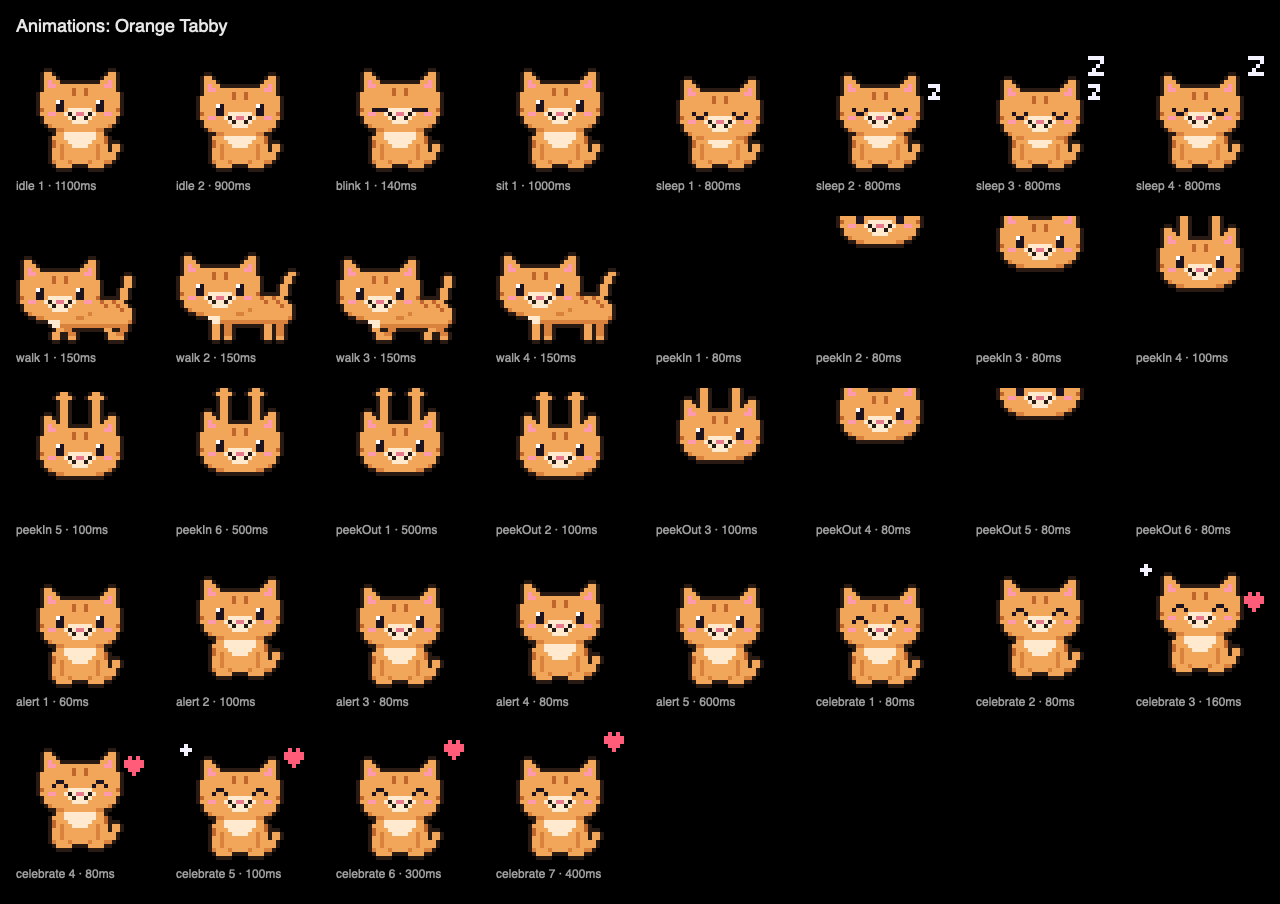
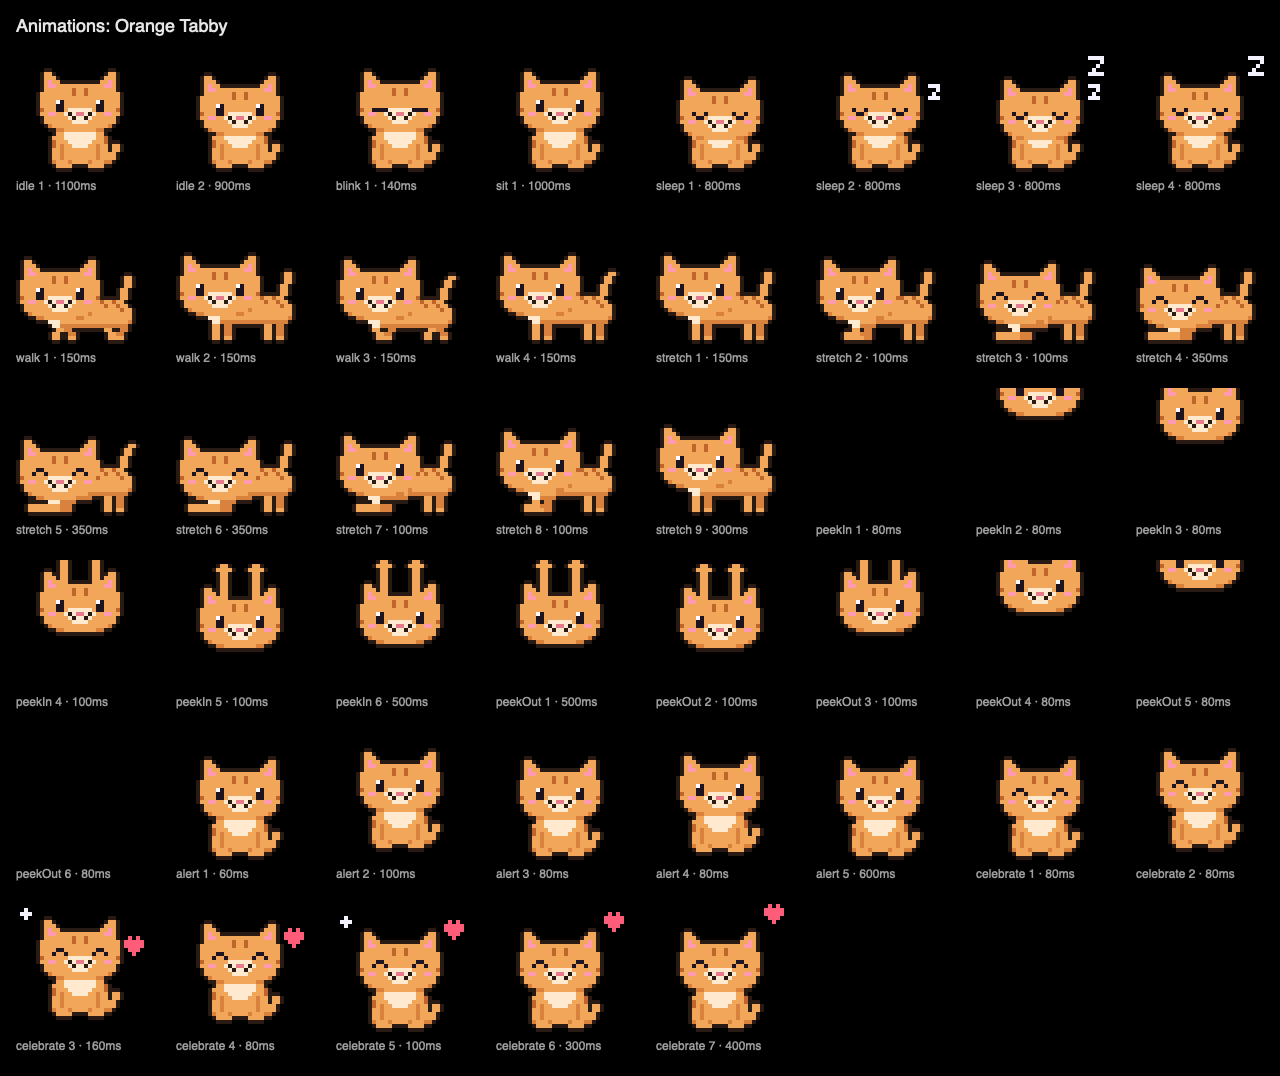
feat(pets): Added the stretch animation (`PetAnimation.stretch`), a side-on play bow for all 14 breeds and every costume, built by bending the walking body. It includes a gallery sheet, a new behavior test (251 green, zero warnings) and docs.

diff --git a/Sources/NotchDeckCore/Pets/PetComposer.swift b/Sources/NotchDeckCore/Pets/PetComposer.swift
@@ -39,6 +39,10 @@ public enum PetComposer {
         case hanging
         /// Side-on torso mid-stride; `step` indexes `WalkArt.cycle`.
         case walking(step: Int)
+        /// The walking body bowing into a stretch: the chest sinks `depth`
+        /// pixels while the front paws slide forward and the rump stays up.
+        /// `wag` picks the tail position.
+        case stretching(depth: Int, wag: Int)
     }
 
     static func compose(
@@ -80,19 +84,37 @@ public enum PetComposer {
             for (x, lean, far) in legs {
                 canvas.stamp(WalkArt.leg(height: walk.legHeight, lean: lean, far: far), x: x, y: legY, pattern: pattern)
             }
-            canvas.stamp(walk.torso, x: walk.torsoX, y: walk.torsoY + sink, pattern: pattern)
-            if breed.hasTail {
-                // The tail sways once per half cycle, not every step, so it doesn't flicker.
-                let tail = walk.tails[(index / 2) % walk.tails.count]
-                canvas.stamp(tail, x: walk.tailX, y: walk.torsoY + sink - tail.height, pattern: pattern)
-            }
-            // The torso is behind the head, so torso costumes go on now.
-            for item in bodyItems(outfit: outfit, accessories: accessories) {
-                canvas.stamp(walk.pick(item), x: walk.torsoX, y: walk.torsoY + sink)
-            }
+            // The tail sways once per half cycle, not every step, so it doesn't flicker.
+            canvas.lay(walkingTorso(breed, walk, outfit: outfit, accessories: accessories, wag: index / 2)) { _ in sink }
             bodyItem = { _ in nil }
             headX = walk.headX
             headY = walk.chinRow + 1 - layout.head.height + sink + pose.headDrop
+        case .stretching(let bow, let wag):
+            let walk = WalkLayout(layout.family)
+            // Short legs bow less, so the chin never sinks onto the paws.
+            let depth = min(bow, walk.legHeight - 1)
+            let legY = walk.torsoY + walk.torso.height
+            // Back legs stand straight; front legs fold down and reach ahead,
+            // ending on the same baseline.
+            let height = max(2, walk.legHeight - depth)
+            let reach = depth * 2
+            for (x, far) in [(walk.backHip + 3, true), (walk.backHip, false)] {
+                canvas.stamp(WalkArt.leg(height: walk.legHeight, lean: .under, far: far), x: x, y: legY, pattern: pattern)
+            }
+            // Bow the torso: columns toward the chest sink, the rump stays put.
+            let torso = walkingTorso(breed, walk, outfit: outfit, accessories: accessories, wag: wag)
+            let pivot = walk.torsoX + walk.torso.width * 2 / 3
+            canvas.lay(torso) { x in
+                x >= pivot ? 0 : min(depth, Int((Double(depth * (pivot - x)) / Double(pivot - walk.torsoX)).rounded()))
+            }
+            // The forearms lie in front of the lowered chest.
+            for (x, far) in [(walk.frontHip + 3, true), (walk.frontHip, false)] {
+                canvas.stamp(WalkArt.reachingLeg(height: height, reach: reach, far: far),
+                             x: x - reach, y: legY + walk.legHeight - height, pattern: pattern)
+            }
+            bodyItem = { _ in nil }
+            headX = walk.headX
+            headY = walk.chinRow + 1 - layout.head.height + depth + pose.headDrop
         }
         canvas.stamp(layout.head, x: headX, y: headY, pattern: pattern)
         let face = EffectArt.face(layout.face, eyeRow: layout.eyeRow - layout.faceRow, eyes: pose.eyes)
@@ -115,6 +137,24 @@ public enum PetComposer {
         }
         let anchor = PetPoint(x: headX + layout.head.width - 1, y: headY + layout.skullTop - pose.lift)
         return Composed(canvas: canvas.outlined().shifted(x: 0, y: -pose.lift), headTopRight: anchor)
+    }
+
+    /// The walking torso with its tail and torso costumes, on its own frame
+    /// canvas so a stance can bend it before laying it over the legs. The
+    /// torso is behind the head, so torso costumes go on here, before it.
+    private static func walkingTorso(
+        _ breed: PetBreed, _ walk: WalkLayout, outfit: PetOutfit, accessories: [PetAccessory], wag: Int
+    ) -> PetCanvas {
+        var canvas = PetCanvas(width: frameSize, height: frameSize)
+        canvas.stamp(walk.torso, x: walk.torsoX, y: walk.torsoY, pattern: breed.pattern)
+        if breed.hasTail {
+            let tail = walk.tails[wag % walk.tails.count]
+            canvas.stamp(tail, x: walk.tailX, y: walk.torsoY - tail.height, pattern: breed.pattern)
+        }
+        for item in bodyItems(outfit: outfit, accessories: accessories) {
+            canvas.stamp(walk.pick(item), x: walk.torsoX, y: walk.torsoY)
+        }
+        return canvas
     }
 
     /// The outfit and neck items worn, in drawing order.
@@ -246,6 +286,17 @@ public enum PetComposer {
 
         func pick(_ item: CostumeArt.BodyItem) -> SpriteGrid {
             family == .longDog ? item.walkLong : item.walk
+        }
+    }
+}
+
+extension PetCanvas {
+    /// Paints the opaque pixels of `layer` over this canvas, moving each
+    /// column down by `drop(x)` pixels: a plain offset, or a bend.
+    fileprivate mutating func lay(_ layer: PetCanvas, drop: (Int) -> Int) {
+        for x in 0..<layer.width {
+            let dy = drop(x)
+            for y in 0..<layer.height { if let role = layer[x, y] { self[x, y + dy] = role } }
         }
     }
 }

diff --git a/Tests/NotchDeckCoreTests/PetsAnimationTests.swift b/Tests/NotchDeckCoreTests/PetsAnimationTests.swift
@@ -168,6 +168,37 @@ final class PetAnimationTests: XCTestCase {
         }
     }
 
+    func testStretchBowsDownAndRisesBackToStanding() throws {
+        for breed in PetBreed.allCases {
+            let clip = PetComposer.clip(.stretch, for: breed, outfit: .scrubs, accessories: [.stethoscope, .beanie])
+            XCTAssertFalse(clip.loops)
+            let canvases = clip.frames.map(\.canvas)
+            // It starts and ends on the walk's standing (passing) step, so it
+            // chains with walking without a jump.
+            let standing = PetComposer.clip(.walk, for: breed, outfit: .scrubs, accessories: [.stethoscope, .beanie])
+                .frames[1].canvas
+            XCTAssertEqual(canvases.first, standing, "\(breed)")
+            XCTAssertEqual(canvases.last, standing, "\(breed)")
+
+            let last = PetComposer.frameSize - 1
+            for canvas in canvases {
+                let bounds = try XCTUnwrap(canvas.opaqueBounds)
+                XCTAssertEqual(bounds.maxY, baseline, "paws stay on the baseline: \(breed)")
+                let edges = (0...last).flatMap { [canvas[0, $0], canvas[last, $0], canvas[$0, 0]] }
+                XCTAssertTrue(edges.allSatisfy { $0 == nil || $0 == .outline }, "nothing clipped: \(breed)")
+                XCTAssertTrue(canvas.pixels.contains(.costumeBase), "scrubs follow the bow: \(breed)")
+            }
+
+            // In the bow the head (topmost pixel, under the beanie) sinks while
+            // the rump stays up and the eyes squint happily.
+            let bow = try XCTUnwrap(canvases.max { $0.opaqueTop(inColumns: 0..<12) < $1.opaqueTop(inColumns: 0..<12) })
+            XCTAssertGreaterThan(bow.opaqueTop(inColumns: 0..<12), standing.opaqueTop(inColumns: 0..<12) + 1, "\(breed)")
+            XCTAssertEqual(bow.opaqueTop(inColumns: 24..<30), standing.opaqueTop(inColumns: 24..<30),
+                           "the rump stays up: \(breed)")
+            XCTAssertLessThan(eyePixels(bow), eyePixels(standing), "\(breed)")
+        }
+    }
+
     func testCanvasShiftAndFlip() {
         var canvas = PetCanvas(width: 3, height: 3)
         canvas[0, 0] = .eye
@@ -177,5 +208,12 @@ final class PetAnimationTests: XCTestCase {
         XCTAssertNil(canvas.shifted(x: 0, y: -1).opaqueBounds, "moved off the canvas is clipped")
         XCTAssertEqual(canvas.flippedVertically()[0, 2], .eye)
         XCTAssertEqual(canvas.flippedVertically().flippedVertically(), canvas)
+    }
+}
+
+private extension PetCanvas {
+    /// The highest opaque row within `columns`, or the canvas height if empty.
+    func opaqueTop(inColumns columns: Range<Int>) -> Int {
+        (0..<height).first { y in columns.contains { self[$0, y] != nil } } ?? height
     }
 }

diff --git a/Sources/NotchDeckCore/Pets/PetAnimation.swift b/Sources/NotchDeckCore/Pets/PetAnimation.swift
@@ -51,6 +51,9 @@ public enum PetAnimation: String, CaseIterable, Codable, Sendable {
     /// Trotting toward the left, side-on with the face to the viewer. Loops;
     /// mirror the frames to walk right.
     case walk
+    /// A play bow: chest down, paws forward, rump and tail up, then back to
+    /// standing. Side-on like `walk`, facing left.
+    case stretch
     /// Hanging head first out of the notch's top edge.
     case peekIn
     /// The reverse of `peekIn`: pulling back up into the notch.
@@ -64,7 +67,7 @@ public enum PetAnimation: String, CaseIterable, Codable, Sendable {
     public var loops: Bool {
         switch self {
         case .idle, .sit, .sleep, .walk: true
-        case .blink, .peekIn, .peekOut, .alert, .celebrate: false
+        case .blink, .stretch, .peekIn, .peekOut, .alert, .celebrate: false
         }
     }
 }
@@ -204,6 +207,19 @@ extension PetComposer {
                 let composed = compose(breed, pose: PetPose(), outfit: outfit, accessories: accessories,
                                        stance: .walking(step: step))
                 return PetFrame(canvas: composed.canvas, duration: 0.15)
+            }
+
+        case .stretch:
+            // Ease down into the bow, hold it with a tail wag and happy
+            // eyes, then rise back up.
+            let steps: [(Int, Int, PetPose.Eyes, TimeInterval)] = [
+                (0, 0, .open, 0.15), (1, 0, .open, 0.1), (2, 0, .happy, 0.1), (3, 0, .happy, 0.35),
+                (3, 1, .happy, 0.35), (3, 0, .happy, 0.35), (2, 0, .open, 0.1), (1, 0, .open, 0.1), (0, 0, .open, 0.3),
+            ]
+            frames = steps.map { depth, wag, eyes, duration in
+                let composed = compose(breed, pose: PetPose(eyes: eyes), outfit: outfit, accessories: accessories,
+                                       stance: .stretching(depth: depth, wag: wag))
+                return PetFrame(canvas: composed.canvas, duration: duration)
             }
 
         case .alert:

diff --git a/Sources/NotchDeckCore/Pets/Art/WalkArt.swift b/Sources/NotchDeckCore/Pets/Art/WalkArt.swift
@@ -118,6 +118,26 @@ enum WalkArt {
         return grid
     }
 
+    /// A front leg reaching forward along the ground for the stretch: the
+    /// hip column drops `height` rows and the forearm lies flat for `reach`
+    /// more pixels toward the left, paw first. With no reach it is a plain
+    /// standing leg.
+    static func reachingLeg(height: Int, reach: Int, far: Bool) -> SpriteGrid {
+        var grid = SpriteGrid(width: reach + 2, height: height)
+        let fur: SpriteCell = far ? .role(.furShade) : .role(.furBase)
+        for y in 0..<height {
+            // The bottom two rows are the forearm resting on the ground.
+            let lying = reach > 0 && y >= height - 2
+            for x in (lying ? 0 : reach)..<(reach + 2) {
+                grid[x, y] = fur
+            }
+        }
+        // The paw is the leading tip of the bottom row.
+        grid[0, height - 1] = .zone(.paws)
+        grid[1, height - 1] = .zone(.paws)
+        return grid
+    }
+
     /// One step of the gait: the lean of the near front, far front, near
     /// back, and far back leg. Diagonal pairs move together, like a real trot.
     struct Step {

diff --git a/Sources/PetGallery/main.swift b/Sources/PetGallery/main.swift
@@ -157,3 +157,17 @@ for (breed, look) in [(PetBreed.orangeTabby, looks[looks.count - 4]), (.goldenRe
 }
 try writeSheet(walkCells, columns: 8, title: "Walk cycle (150ms per step)",
                to: outputDirectory.appendingPathComponent("walk.png"))
+
+// Stretch check: every breed through the whole bow, then two dressed looks.
+var stretchCells: [Cell] = []
+let stretchRuns = PetBreed.allCases.map { ($0, $0.displayName, PetOutfit.none, [PetAccessory]()) }
+    + [(.corgi, "On call", .scrubs, [.stethoscope, .surgicalCap]), (.siamese, "Graduate", .whiteCoat, [.roundGlasses, .graduationCap])]
+for (breed, name, outfit, accessories) in stretchRuns {
+    let clip = PetComposer.clip(.stretch, for: breed, outfit: outfit, accessories: accessories)
+    for (index, frame) in clip.frames.enumerated() {
+        stretchCells.append(Cell(label: "\(name) \(index + 1)", canvas: frame.canvas,
+                                 palette: breed.palette.withVisibleRim()))
+    }
+}
+try writeSheet(stretchCells, columns: 9, title: "Stretch (play bow)",
+               to: outputDirectory.appendingPathComponent("stretch.png"))

diff --git a/docs/studynotch/pets.md b/docs/studynotch/pets.md
@@ -3,8 +3,7 @@
 A study-buddy cat or dog lives in the notch.
 This document explains how pet sprites are drawn, composed, and rendered, and how to add a breed.
 
-Status: the sprite format, palettes, pattern zones, renderer, all eight cat breeds, all six dog breeds, every costume, the front-facing animations (idle, blink, sit, sleep, peek in and out, alert, celebrate), the walk cycle, the animation state machine, and the app's `PetView` exist.
-The stretch animation is in progress.
+Status: the sprite format, palettes, pattern zones, renderer, all eight cat breeds, all six dog breeds, every costume, the front-facing animations (idle, blink, sit, sleep, peek in and out, alert, celebrate), the walk cycle, the stretch, the animation state machine, and the app's `PetView` exist.
 
 ![All cat breeds sitting, on black at 4x](images/cats-sitting.png)
 
@@ -138,7 +137,7 @@ Accessories are drawn after the face and before the automatic outline, so hats g
 ## Animations
 
 `PetComposer.clip(_:for:outfit:accessories:)` builds a `PetClip`: a list of `PetFrame`s, each with its own `duration` in seconds.
-`clip.frame(at: elapsed)` picks the frame to show; looping clips (idle, sit, sleep, walk) wrap around, one-shot clips (blink, peek, alert, celebrate) hold their last frame, and `isFinished(at:)` tells the player when to move on.
+`clip.frame(at: elapsed)` picks the frame to show; looping clips (idle, sit, sleep, walk) wrap around, one-shot clips (blink, stretch, peek, alert, celebrate) hold their last frame, and `isFinished(at:)` tells the player when to move on.
 
 Front-facing animations are not drawn frame by frame.
 Each frame is the sitting composition in a `PetPose`, so every breed and costume animates without extra art:
@@ -162,6 +161,7 @@ The composer finds the open eyes on the face's eye row, clears them so the head'
 | alert | Two hops (2 px, then 1 px) and a hold; every frame has a `bubbleAnchor` at the top-right of the head for the app's speech bubble |
 | celebrate | Happy eyes, a 3 px hop, a heart floating up beside the head, and sparkles |
 | walk | Four 150 ms steps of a trot, side-on (see below) |
+| stretch | A side-on play bow: down in three steps, a held bow with happy eyes and a tail wag, then back up (see below) |
 
 Effects (the "z", heart, and sparkles) use the `effect` and `heart` roles and are painted after outlining and only into transparent pixels, so they float free of the pet and never hide part of a hat.
 The peek legs come from `EffectArt.hangingLeg`, drawn behind the head with the breed's paw zone.
@@ -170,7 +170,7 @@ The peek legs come from `EffectArt.hangingLeg`, drawn behind the head with the b
 
 ### Walking
 
-The walk is the one animation that is not a sitting pose.
+The walk and the stretch are the two animations that are not sitting poses.
 It is drawn chibi-style: the usual front-facing head sits in front of a side-on torso, so the face, glasses, and hats need no walking art and stay readable at notch size.
 Pets walk toward the left; mirror the frames to walk right.
 
@@ -189,6 +189,21 @@ Torso costumes are stamped right after the torso, before the head, because the h
 `PetComposer.WalkLayout` holds the per-family positions (torso origin, hips, tail, and the chin row the head rests on).
 
 ![The walk cycle for every breed and four looks](images/walk.png)
+
+### Stretching
+
+The stretch is a play bow built from the walking body, so it needs no new torso, head, or costume art.
+The composer's `stretching(depth:wag:)` stance:
+
+- keeps the back legs standing straight, so the rump and tail stay where they are when walking;
+- bends the torso, with its tail and torso costumes, by moving each column toward the chest down by up to `depth` pixels (the rump third stays put);
+- folds the front legs with `WalkArt.reachingLeg(height:reach:far:)`: shorter legs whose forearms lie flat and reach `2 * depth` pixels forward, drawn over the lowered chest so the paws show under the chin;
+- lowers the head by `depth`, so hats and glasses follow.
+
+The bow is at most `legHeight - 1` deep, so the short-legged dachshund bows 2 px instead of 3 and its chin never lands on its paws.
+The first and last frames equal the walk's passing step, so a stretch can chain with walking without a jump.
+
+![The stretch for every breed and two looks](images/stretch.png)
 
 ### Playing animations
 
